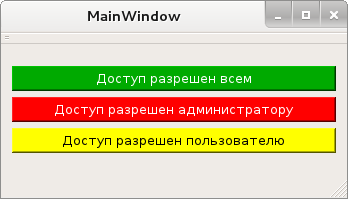
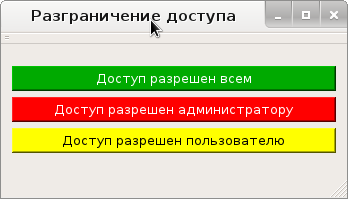
Change img

Changed region(s): [[0.0862, 0.0302, 0.6897, 0.2111]]

diff --git a/src/UIR8/ui_mainwindow.h b/src/UIR8/ui_mainwindow.h
@@ -95,7 +95,7 @@ public:
 
     void retranslateUi(QMainWindow *MainWindow)
     {
-        MainWindow->setWindowTitle(QApplication::translate("MainWindow", "MainWindow", 0, QApplication::UnicodeUTF8));
+        MainWindow->setWindowTitle(QApplication::translate("MainWindow", "\320\240\320\260\320\267\320\263\321\200\320\260\320\275\320\270\321\207\320\265\320\275\320\270\320\265 \320\264\320\276\321\201\321\202\321\203\320\277\320\260", 0, QApplication::UnicodeUTF8));
         buttonAllAccess->setText(QApplication::translate("MainWindow", "\320\224\320\276\321\201\321\202\321\203\320\277 \321\200\320\260\320\267\321\200\320\265\321\210\320\265\320\275 \320\262\321\201\320\265\320\274", 0, QApplication::UnicodeUTF8));
         buttonAdmAccess->setText(QApplication::translate("MainWindow", "\320\224\320\276\321\201\321\202\321\203\320\277 \321\200\320\260\320\267\321\200\320\265\321\210\320\265\320\275 \320\260\320\264\320\274\320\270\320\275\320\270\321\201\321\202\321\200\320\260\321\202\320\276\321\200\321\203", 0, QApplication::UnicodeUTF8));
         buttonUserAccess->setText(QApplication::translate("MainWindow", "\320\224\320\276\321\201\321\202\321\203\320\277 \321\200\320\260\320\267\321\200\320\265\321\210\320\265\320\275 \320\277\320\276\320\273\321\214\320\267\320\276\320\262\320\260\321\202\320\265\320\273\321\216", 0, QApplication::UnicodeUTF8));
